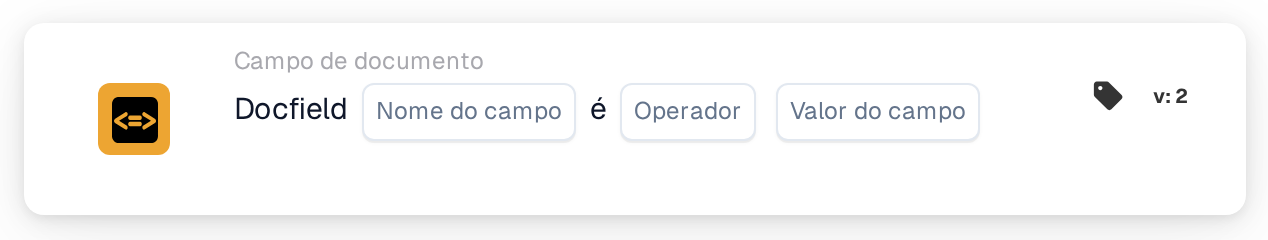
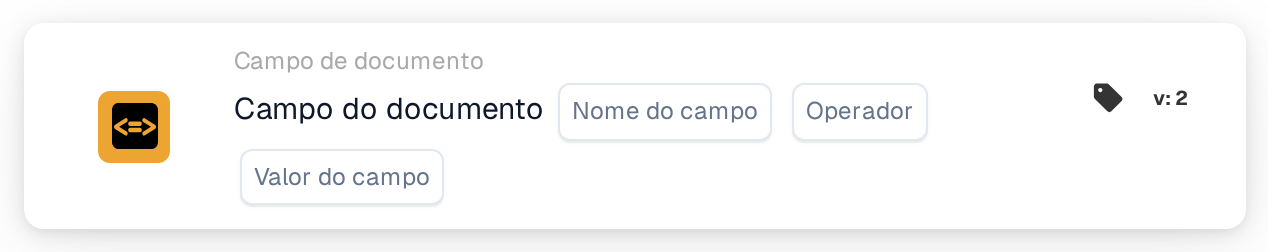
[Documentation_Workflow_Cards] [DRFS-881] document new docfield operators is one of and regex

diff --git a/public_docs/administration-and-setup/workflow/and/document-field/docfield-is.md b/public_docs/administration-and-setup/workflow/and/document-field/docfield-is.md
@@ -28,39 +28,94 @@ Por exemplo, uma segunda aprovação para faturas grandes: Montante total maior 
 
 ## **Propósito:**
 
-Este cartão de fluxo de trabalho foi concebido para automatizar ações comparando o valor de um campo de documento especificado com um valor ou condição de referência. Assegura uma tomada de decisões dinâmica e precisa nos fluxos de trabalho, com base na validação dos dados do documento.
+Este cartão compara um campo do documento com um valor que introduz no cartão. Utilize-o para encaminhar documentos por caminhos diferentes consoante o valor de um campo, por exemplo uma segunda aprovação para faturas de valor elevado ou um percurso especial para alguns fornecedores.
+
+O cartão lê-se: **Campo do documento** [Nome do campo] [Operador] [Valor do campo].
 
 ## **Componentes do cartão:**
 
 1. **Nome do campo**
-   * **Descrição:** Especifica o nome do campo de documento a avaliar.
-   * **Detalhe:** Tem de corresponder ao identificador exato do campo dentro do documento.
-2. **Operadores**
-   * **Descrição:** Define o tipo de comparação a realizar entre o valor do campo e o valor de referência.
-   * **Opções:**
-     * **Igual a (=):** Verifica se o valor do campo corresponde ao valor de referência.
-     * **Não é igual (≠):** Garante que o valor do campo é diferente do valor de referência.
-     * **Maior que (>):** Confirma que o valor do campo é superior ao valor de referência.
-     * **Maior ou Igual (≥):** Valida que o valor do campo é igual ou superior ao valor de referência.
-     * **Menor que (<):** Verifica se o valor do campo é inferior ao valor de referência.
-     * **Menor ou igual (≤):** Garante que o valor do campo é inferior ou igual ao valor de referência.
+   * O campo do documento a verificar, escolhido entre os campos do tipo de documento.
+2. **Operador**
+   * A forma como o valor do campo é comparado com o **Valor do campo**. Os operadores adequados dependem do tipo do campo, consulte **Operadores** abaixo.
+3. **Valor do campo**
+   * O valor com que se compara. Consoante o operador, é um valor único, uma lista separada por vírgulas ou uma expressão regular.
 
-## **Funcionalidade:**
+## **Operadores:**
 
-* **Avaliação da condição:** O sistema verifica se o valor do campo de documento, em relação à sua coluna associada, cumpre a condição de comparação especificada pelo operador e pelo valor de referência.
-* **Execução da ação:**
-  * **Condição Verdadeira:**\
-    Se o valor do campo de documento cumprir a condição especificada (por exemplo, é igual ao valor de referência), o sistema aciona as ações associadas. Estas podem incluir a atualização de registos, o avanço do fluxo de trabalho ou a geração de notificações.
-  * **Condição Falsa:**\
-    Se o valor do campo de documento não cumprir a condição especificada, são executadas ações alternativas ou nenhuma ação, consoante a configuração do fluxo de trabalho.
+| Operador | Cumprido quando | Tipos de campo |
+| --- | --- | --- |
+| **É igual a** (=) | o valor do campo é igual ao Valor do campo | texto, número, montante, data |
+| **Não é igual a** (≠) | o valor do campo é diferente do Valor do campo | texto, número, montante, data |
+| **Maior que** (>) | o valor do campo é maior do que o Valor do campo | número, montante, data |
+| **Maior ou igual** (≥) | o valor do campo é maior ou igual ao Valor do campo | número, montante, data |
+| **Menor que** (<) | o valor do campo é menor do que o Valor do campo | número, montante, data |
+| **Menor ou igual** (≤) | o valor do campo é menor ou igual ao Valor do campo | número, montante, data |
+| **É um de** | o valor do campo é igual a um elemento de uma lista separada por vírgulas | texto |
+| **Não é nenhum de** | o valor do campo não é igual a nenhum elemento da lista | texto |
+| **Corresponde à regex** | a expressão regular é encontrada no valor do campo | texto, número, montante, data |
+| **Não corresponde à regex** | a expressão regular não é encontrada no valor do campo | texto, número, montante, data |
+
+Os campos booleanos (caixas de verificação) não são suportados por este cartão. Para eles, utilize **Checkbox is checked**.
+
+### É igual a e Não é igual a em campos de texto
+
+O texto é comparado sem distinguir maiúsculas de minúsculas, e um espaço conta o mesmo que um sublinhado: `Acme Freight` é igual a `acme_freight`. Os espaços no início e no fim são ignorados.
+
+### É um de e Não é nenhum de
+
+Utilize estes operadores para verificar um campo de texto em relação a vários valores de uma só vez, por exemplo uma lista de IDs de fornecedor.
+
+* Introduza os valores como uma lista separada por vírgulas: `40321,40322,40388`.
+* O valor do campo tem de ser exatamente igual a um elemento. Um valor parcial não corresponde: `4032` não pertence a `40321,40322,40388`, nem um valor mais longo como `403210`.
+* As maiúsculas não importam, e um espaço conta o mesmo que um sublinhado. Os espaços à volta dos elementos são ignorados, e os elementos vazios, como o de `a,,b`, são saltados.
+* Para usar uma vírgula dentro de um valor, escreva-a como `\,`. `Acme Freight\, LLC,Riverside Supply` é uma lista de dois elementos: `Acme Freight, LLC` e `Riverside Supply`.
+* Um valor de campo vazio não pertence a nenhuma lista. Nesse caso, **É um de** não é cumprido e **Não é nenhum de** é cumprido.
+* Estes operadores funcionam apenas em campos de texto. Num campo de número, montante ou data, ou com uma lista sem nenhum elemento (por exemplo, apenas vírgulas), o cartão termina com um erro.
+
+### Corresponde à regex e Não corresponde à regex
+
+Utilize estes operadores quando é um padrão que decide, por exemplo «começa por» ou «é composto apenas por dígitos».
+
+* O **Valor do campo** é uma expressão regular com sintaxe Python. É procurada em qualquer posição do valor do campo: `Freight` corresponde a `Acme Freight, LLC`.
+* Utilize `^` e `$` para verificar o valor completo: `^33` significa «começa por 33», e `^(40321|40322|40388)$` significa «exatamente um destes valores».
+* O padrão distingue maiúsculas de minúsculas. Comece-o com `(?i)` para ignorar as maiúsculas: `(?i)freight` também corresponde a `Acme Freight, LLC`.
+* `^` e `$` referem-se ao valor do campo completo. Comece o padrão com `(?m)` para os aplicar a cada linha de um valor com várias linhas.
+* O padrão é usado exatamente como o escreve. Não é aparado e as maiúsculas são mantidas, pelo que `\D` (qualquer carácter que não seja um dígito) mantém o seu significado, e um padrão composto por um único espaço procura um espaço.
+* Os caracteres com significado especial em expressões regulares têm de ser escapados para corresponderem literalmente: `\(copy\)` corresponde ao texto `(copy)`, enquanto `(copy)` é um grupo que encontra a palavra `copy`.
+* Os números, montantes e datas são comparados como o texto com que estão guardados: um montante de 997.60 corresponde a `^997\.60$`.
+* Um valor de campo vazio é tratado como texto vazio, pelo que `^$` lhe corresponde.
+* Um padrão inválido, por exemplo `(20` com um parêntese em falta, termina o cartão com um erro. O mesmo acontece quando um padrão demora demasiado tempo num valor (mais de 0,05 segundos), o que só ocorre com padrões mal construídos como `(a|aa)+$`. Em ambos os casos, a condição não é considerada nem cumprida nem não cumprida, pelo que **Não corresponde à regex** nunca passa por causa de um padrão defeituoso.
+
+## **Como funciona o cartão:**
+
+* **Campo não existe no documento:** se o documento não tiver nenhum campo com o nome escolhido, o cartão para e indica que o campo não foi encontrado, seja qual for o operador.
+* **Condição cumprida:** o Workflow continua com o cartão seguinte (no Advanced Workflow, pela saída de sucesso).
+* **Condição não cumprida:** o Workflow para neste cartão (no Advanced Workflow, segue pela saída de condição não cumprida).
+* **Erro:** um operador que não se adequa ao tipo de campo, um Valor do campo em falta, uma lista vazia ou um padrão inutilizável terminam o cartão com um erro. O registo do cartão mostra o motivo.
 
 ## **Configuração:**
 
-* O utilizador seleciona o nome do campo do documento relevante e escolhe o operador no menu pendente. De seguida, o utilizador especifica o valor do campo de referência para concluir a configuração.
+Escolha o campo em **Nome do campo**, o operador em **Operador** e introduza o valor em **Valor do campo**. Para números e montantes, introduza o valor sem símbolo monetário e com ponto decimal, por exemplo `1000.50`.
+
+Para experimentar uma configuração sem esperar por um documento, abra o menu do cartão no Workflow Builder, escolha **Test Card**, selecione um documento e escolha **Test on Document**. O registo do cartão mostra o valor do campo, o operador e o resultado.
+
+## **Exemplos:**
+
+| Objetivo | Nome do campo | Operador | Valor do campo | Valor do campo no documento | Resultado |
+| --- | --- | --- | --- | --- | --- |
+| Segunda aprovação para faturas de valor elevado | Montante total | Maior que | `10000` | 12500.00 | cumprida |
+| Encaminhar alguns fornecedores | ID do fornecedor | É um de | `40321,40322,40388` | 40322 | cumprida |
+| | | | | 4032 | não cumprida |
+| Excluir um fornecedor com uma vírgula no nome | Nome do fornecedor | Não é nenhum de | `Acme Freight\, LLC` | Acme Freight, LLC | não cumprida |
+| Números de encomenda que começam por 33 | Número de encomenda | Corresponde à regex | `^33` | 33012 | cumprida |
+| | | | | 13301 | não cumprida |
+| Referência com letras | Referência | Corresponde à regex | `\D` | AB-1204 | cumprida |
+| Cópias de faturas | Número da fatura | Não corresponde à regex | `\(copy\)` | INV-1204 (copy) | não cumprida |
 
 ## **Conclusão:**
 
-O cartão de fluxo de trabalho "DocField Comparison Validation" é uma ferramenta robusta para o processamento dinâmico de documentos. Ao automatizar ações com base em comparações de campos, este cartão simplifica os fluxos de trabalho, aumenta a precisão e apoia a tomada de decisões orientada por dados.
+O cartão verifica um único campo do documento em relação a um valor, uma lista ou um padrão. Utilize **É um de** para listas fixas de valores e **Corresponde à regex** para padrões como prefixos ou formatos.
 
 <!-- workflow-card-practical-example-20261021 -->
 

diff --git a/public_docs/administration-and-setup/workflow/masterclass/field-conditions.md b/public_docs/administration-and-setup/workflow/masterclass/field-conditions.md
@@ -62,7 +62,7 @@ Um valor `"1000.01"` num campo AMOUNT não é o mesmo que os mesmos caracteres n
 
 ## Cartões e parâmetros de exemplo
 
-Estes valores descrevem parâmetros de cartões individuais, não um workflow completo importável. Substitua YOUR\_\* pelas suas próprias escolhas de teste. O ID oculto do chamador é gerido pelo designer. Catálogo: Dev, DocFlow 2.10.38, 21 de outubro de 2026; verifique as versões disponíveis e as permissões na sua própria organização.
+Estes valores descrevem parâmetros de cartões individuais, não um Workflow completo importável. Substitua YOUR\_\* pelas suas próprias escolhas de teste. O ID oculto do chamador é gerido pelo designer. Catálogo: Dev, DocFlow 2.10.38, 21 de outubro de 2026; verifique as versões disponíveis e as permissões na sua própria organização.
 
 ### `condition_docfield_status` · v2
 
@@ -79,7 +79,7 @@ Identidade: `1c35a5a0-1592-446c-9a61-6abb14d27450`
 
 | Parâmetro | Tipo / opções | Exemplo |
 | --- | --- | --- |
-| `operator` | `eq / neq / gt / ge / lt / le` | `"gt"` |
+| `operator` | `eq / neq / gt / ge / lt / le / cont / not_cont / matches_regex / not_matches_regex` | `"gt"` |
 | `field_name` | `field_name:str` | `"total_amount"` |
 | `field_value` | `field_value:str` | `"1000"` |
 
